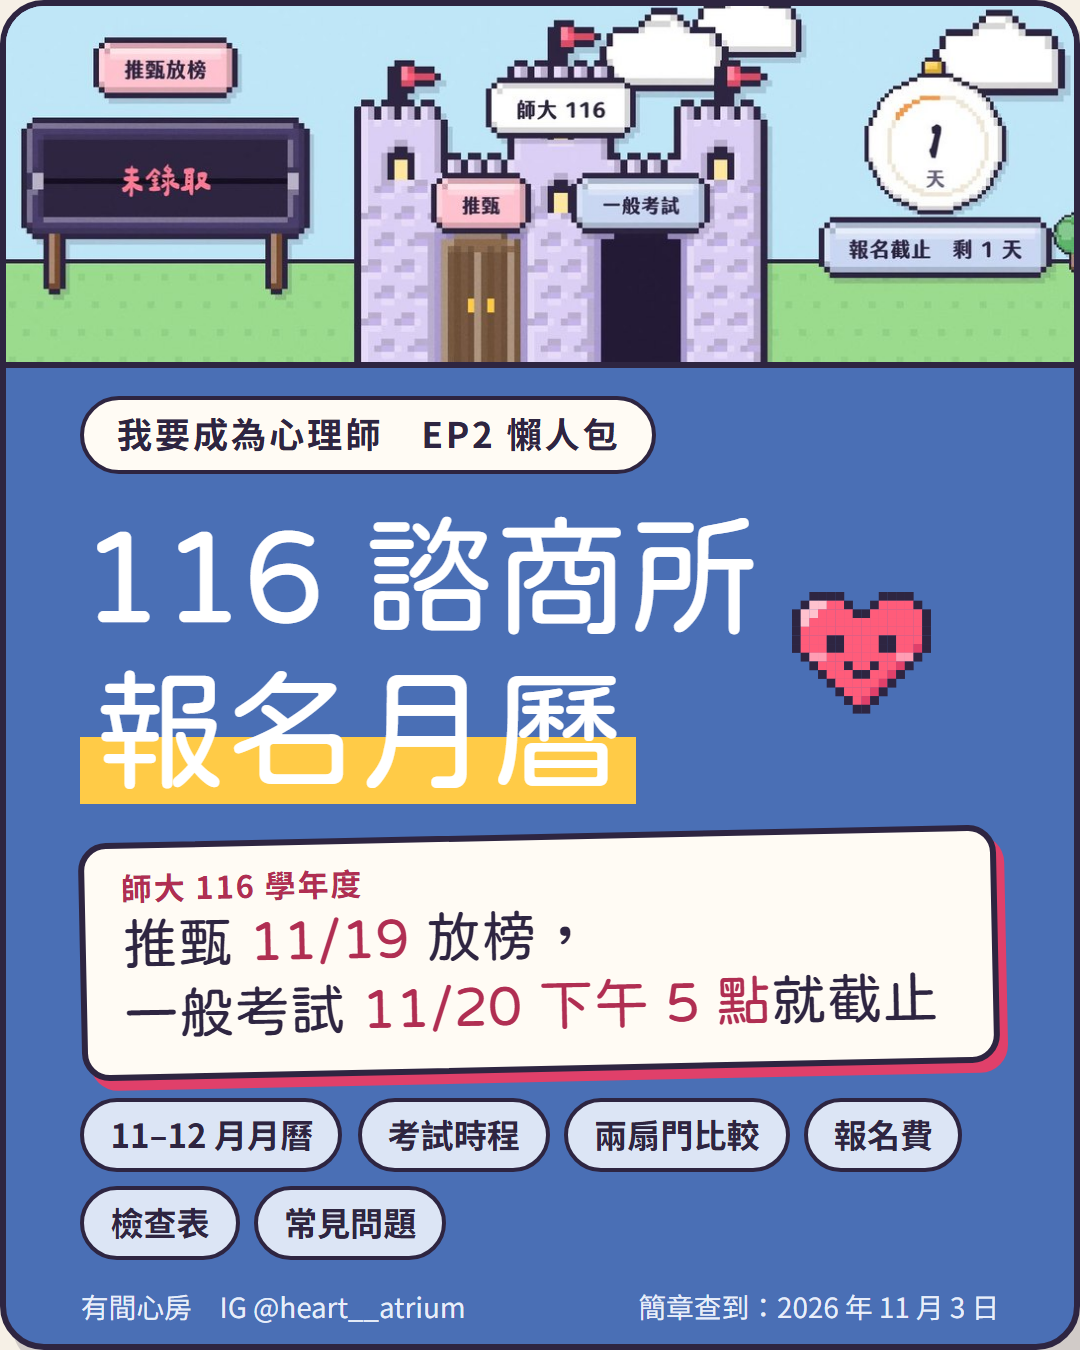
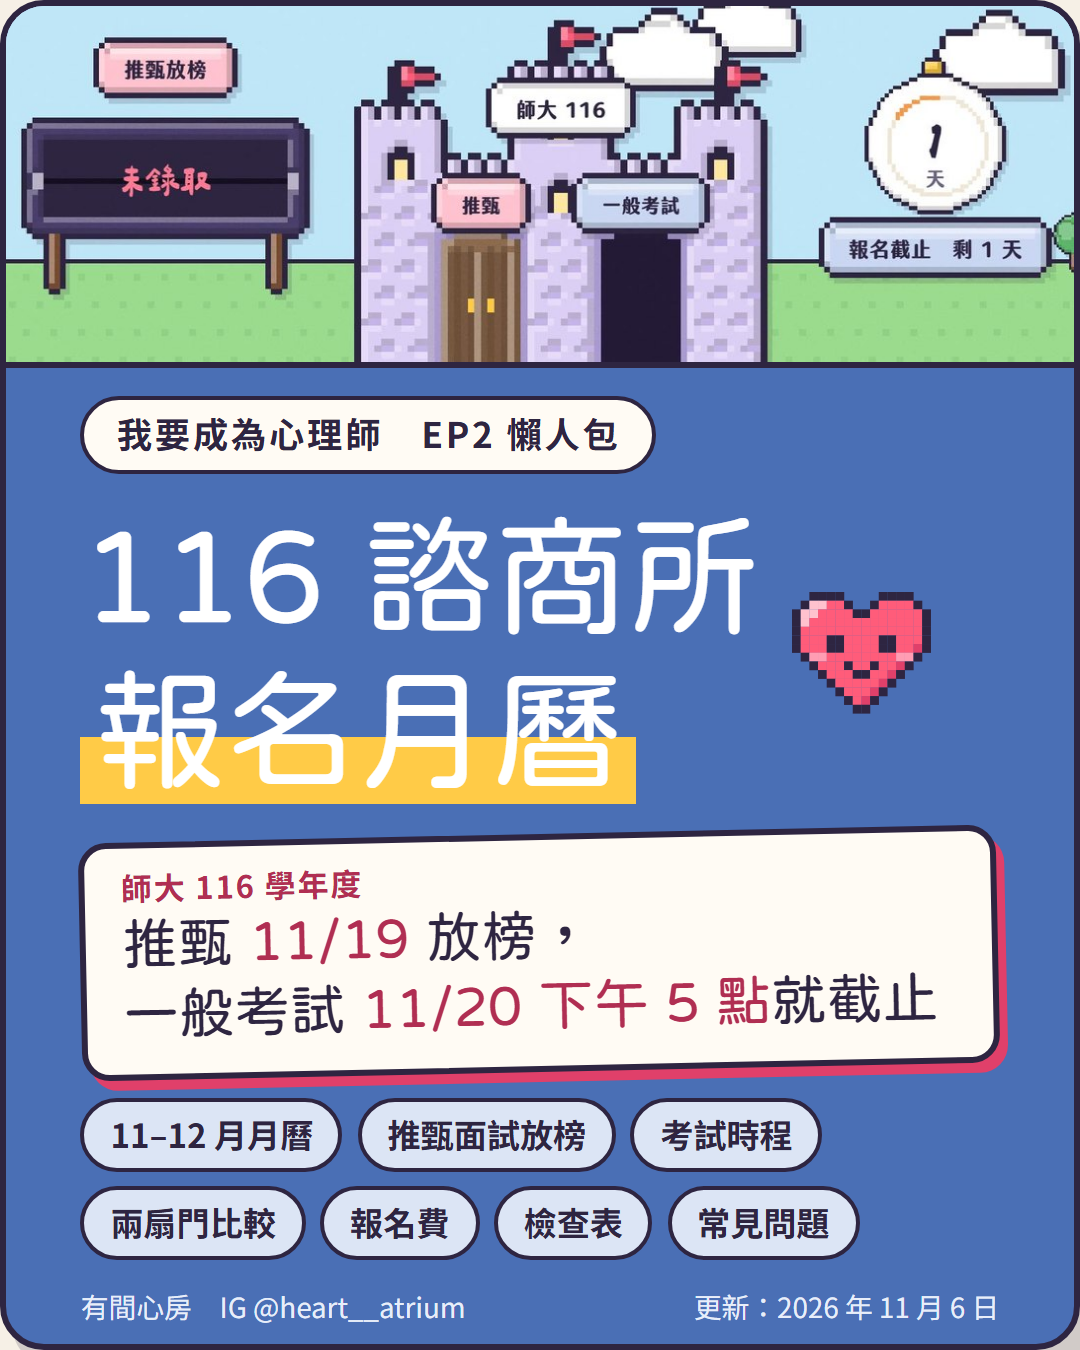
calendar-116: add card 3 (116 推甄 interviews and results from 11/7), link EP3

Changed region(s): [[0.0917, 0.8089, 0.8861, 0.9956]]

diff --git a/calendar-116/index.html b/calendar-116/index.html
@@ -3,7 +3,7 @@
 <head>
 <meta charset="utf-8">
 <meta name="viewport" content="width=device-width, initial-scale=1, viewport-fit=cover">
-<meta name="description" content="116 學年度諮商所推甄放榜、一般考試報名、筆試、口試、放榜日期一次看。師大推甄 11/19 放榜、一般考試 11/20 下午 5 點截止。還有推甄和考試比較、報名費總表、兩扇一起走的檢查表、考生常見問題。有間心房・我要成為心理師 EP2。">
+<meta name="description" content="116 學年度諮商所推甄面試、放榜，一般考試報名、筆試、口試、放榜日期一次看。師大推甄 11/19 放榜、一般考試 11/20 下午 5 點截止。還有推甄和考試比較、報名費總表、兩扇一起走的檢查表、考生常見問題。有間心房・我要成為心理師 EP2。">
 <meta property="og:title" content="116 諮商所報名月曆｜有間心房">
 <meta property="og:description" content="師大推甄 11/19 放榜，一般考試 11/20 下午 5 點就截止。各校推甄放榜、一般考試報名和筆試日期，一張月曆看完。">
 <meta property="og:image" content="https://leopork.github.io/free-counseling/calendar-116/card_1.png">
@@ -85,6 +85,16 @@ a:focus-visible { outline: 3px solid var(--sun); outline-offset: 2px; }
 .alert b { font-family: var(--display); font-weight: 400; font-size: 3.9cqw; line-height: 1.2; }
 .alert p { font-size: 2.9cqw; line-height: 1.45; }
 .alert p strong { font-weight: 900; }
+
+/* 推甄 agenda: one line per day, a coloured tag per kind of event */
+.ag { display: grid; gap: .55cqw; }
+.a { display: grid; grid-template-columns: 15cqw 1fr; gap: 1.6cqw; align-items: center; }
+.a .dt { height: 4.3cqw; padding-top: .2cqw; }
+.a .dt b { font-size: 3.1cqw; }
+.es { font-size: 2.75cqw; line-height: 1.25; white-space: nowrap; }
+.es .k { font-size: 2.45cqw; padding: .55cqw 1.3cqw; margin-right: .7cqw; }
+.es .k:not(:first-child) { margin-left: 1.4cqw; }
+.k.o { background: var(--sunL); } .k.m { background: var(--greenL); }
 
 /* schedule tables (real tables, so they read in order for screen readers) */
 .tbl { width: 100%; table-layout: fixed; border-collapse: separate; border-spacing: 0; border: 2px solid var(--ink); border-radius: 14px; overflow: hidden; background: var(--card); }
@@ -168,8 +178,8 @@ a:focus-visible { outline: 3px solid var(--sun); outline-offset: 2px; }
   <span class="tag">我要成為心理師　EP2 懶人包</span>
   <div class="row"><h1>116 諮商所<br><mark>報名月曆</mark></h1><svg class="heart" viewBox="0 0 16 14" aria-hidden="true"></svg></div>
   <div class="alarm"><small>師大 116 學年度</small><strong>推甄 <em>11/19</em> 放榜，<br>一般考試 <em>11/20 下午 5 點</em>就截止</strong></div>
-  <ul class="toc"><li>11–12 月月曆</li><li>考試時程</li><li>兩扇門比較</li><li>報名費</li><li>檢查表</li><li>常見問題</li></ul>
-  <div class="foot"><span>有間心房　IG @heart__atrium</span><span>簡章查到：2026 年 11 月 3 日</span></div>
+  <ul class="toc"><li>11–12 月月曆</li><li>推甄面試放榜</li><li>考試時程</li><li>兩扇門比較</li><li>報名費</li><li>檢查表</li><li>常見問題</li></ul>
+  <div class="foot"><span>有間心房　IG @heart__atrium</span><span>更新：2026 年 11 月 6 日</span></div>
 </div></section>
 
 <!-- 2 11–12 月月曆（116 官方） -->
@@ -196,8 +206,34 @@ a:focus-visible { outline: 3px solid var(--sun); outline-offset: 2px; }
       <div class="alert"><b>師大：放榜隔天<br>就截止</b><p>等高師、政大、東華的推甄結果，就來不及報師大。<strong>考試先報，不要等。</strong></p></div>
     </div>
   </div>
-  <p class="small">清大＝心諮系甲組。其他學校的一般考試還沒公告，見第 4 張。</p>
-  <div class="foot"><span>依據：9 校 116 甄試簡章；師大、政大、高師 116 考試簡章</span><span>2 / 10</span></div>
+  <p class="small">清大＝心諮系甲組。其他學校的一般考試還沒公告，見第 5 張。</p>
+  <div class="foot"><span>依據：9 校 116 甄試簡章；師大、政大、高師 116 考試簡章</span><span>2 / 11</span></div>
+</div></section>
+
+<!-- 3 推甄：接下來的一榜、面試、放榜（11/7 起） -->
+<section class="card" id="c2b"><div class="in">
+  <span class="tag">推甄日程　11/7 起</span>
+  <h2>接下來誰面試、誰放榜</h2>
+  <p class="small">一榜＝書審通過、公布面試名單。面試日以各系所公告為準。</p>
+  <div class="ag">
+    <div class="a"><span class="dt"><b>11/7</b><i>六</i></span><span class="es"><span class="k m">面試</span>師大、國北教、輔大</span></div>
+    <div class="a"><span class="dt"><b>11/10</b><i>二</i></span><span class="es"><span class="k r">放榜</span>臺南</span></div>
+    <div class="a"><span class="dt"><b>11/12</b><i>四</i></span><span class="es"><span class="k o">一榜</span>屏大、東吳</span></div>
+    <div class="a"><span class="dt"><b>11/13</b><i>五</i></span><span class="es"><span class="k o">一榜</span>政大、銘傳<span class="k m">面試</span>暨大<span class="k r">放榜</span>清大</span></div>
+    <div class="a"><span class="dt"><b>11/14</b><i>六</i></span><span class="es"><span class="k m">面試</span>中教、嘉大、北護</span></div>
+    <div class="a"><span class="dt"><b>11/16</b><i>一</i></span><span class="es"><span class="k o">一榜</span>實踐<span class="k r">放榜</span>北市大</span></div>
+    <div class="a"><span class="dt"><b>11/18</b><i>三</i></span><span class="es"><span class="k r">放榜</span>國北教</span></div>
+    <div class="a"><span class="dt"><b>11/19</b><i>四</i></span><span class="es"><span class="k o">一榜</span>亞大<span class="k r">放榜</span>師大</span></div>
+    <div class="a"><span class="dt"><b>11/20</b><i>五</i></span><span class="es"><span class="k m">面試</span>屏大、政大<span class="k r">放榜</span>陽交、彰師、暨大</span></div>
+    <div class="a"><span class="dt"><b>11/21</b><i>六</i></span><span class="es"><span class="k m">面試</span>東吳、銘傳、亞大</span></div>
+    <div class="a"><span class="dt"><b>11/22</b><i>日</i></span><span class="es"><span class="k m">面試</span>實踐</span></div>
+    <div class="a"><span class="dt"><b>11/24</b><i>二</i></span><span class="es"><span class="k r">放榜</span>高師</span></div>
+    <div class="a"><span class="dt"><b>11/30</b><i>一</i></span><span class="es"><span class="k o">一榜</span>東華</span></div>
+    <div class="a"><span class="dt"><b>12/1</b><i>二</i></span><span class="es"><span class="k r">放榜</span>政大</span></div>
+    <div class="a"><span class="dt"><b>12/5</b><i>六</i></span><span class="es"><span class="k m">面試</span>東華</span></div>
+    <div class="a"><span class="dt"><b>12/15</b><i>二</i></span><span class="es"><span class="k r">放榜</span>東華</span></div>
+  </div>
+  <div class="foot"><span>依據：各校 116 甄試簡章；陽交、輔大等 11 校引用網路整理的日程（網頁版附學校名單）</span><span>3 / 11</span></div>
 </div></section>
 
 <!-- 3 一般考試：116 已公告的三間 -->
@@ -218,7 +254,7 @@ a:focus-visible { outline: 3px solid var(--sun); outline-offset: 2px; }
     </tbody>
   </table>
   <p class="small">推甄放榜、報名在 115 年，筆試以後是 116 年。政大 12/8 中午 12 點前要取號、下午 3 點前登錄。師大＝教心系諮商心理學組，政大＝輔導與諮商學程，高師＝諮復所諮商心理組。</p>
-  <div class="foot"><span>依據：師大、政大、高師 116 學年度碩士班考試、甄試招生簡章</span><span>3 / 10</span></div>
+  <div class="foot"><span>依據：師大、政大、高師 116 學年度碩士班考試、甄試招生簡章</span><span>4 / 11</span></div>
 </div></section>
 
 <!-- 4 還沒公告的學校：115 參考 -->
@@ -239,7 +275,7 @@ a:focus-visible { outline: 3px solid var(--sun); outline-offset: 2px; }
   </table>
   <p class="small">以上是 <b>115 學年度</b>（上一屆）的日期，116 的簡章到 11/3 還沒公告，日期以各校簡章為準。臺南、嘉義、暨南、屏東沒查到 115 簡章原文，先不列。</p>
   <div class="box r"><p><b>上一屆有 4 間的筆試擠在同一個週末</b>（北市大、彰師、中教大 3/7，東華 3/8）。筆試撞期只能選一間。</p></div>
-  <div class="foot"><span>依據：國北教、清大、北市大、彰師、中教大、東華 115 學年度碩士班考試簡章（各校諮商相關系組）</span><span>4 / 10</span></div>
+  <div class="foot"><span>依據：國北教、清大、北市大、彰師、中教大、東華 115 學年度碩士班考試簡章（各校諮商相關系組）</span><span>5 / 11</span></div>
 </div></section>
 
 <!-- 5 兩扇門比較 -->
@@ -259,7 +295,7 @@ a:focus-visible { outline: 3px solid var(--sun); outline-offset: 2px; }
     <p><b>大多不限</b>：政大、高師（116）、彰師（115）不限；臺南考試簡章未查到</p>
   </div>
   <div class="box b"><p><b>兩扇門最後都走進口試：</b>有些學校（像師大、北市大）會請你當場演練一段諮商。</p></div>
-  <div class="foot"><span>依據：各校 116 推甄、考試簡章；彰師、北市大 115 考試簡章</span><span>5 / 10</span></div>
+  <div class="foot"><span>依據：各校 116 推甄、考試簡章；彰師、北市大 115 考試簡章</span><span>6 / 11</span></div>
 </div></section>
 
 <!-- 6 報名費總表 -->
@@ -288,7 +324,7 @@ a:focus-visible { outline: 3px solid var(--sun); outline-offset: 2px; }
   </div>
   <div class="sum"><div><i>8 間推甄全報、都過初審</i><b>約 13,400 元</b></div><div><i>8 間考試全報、都進口試</i><b>約 16,300 元</b></div></div>
   <p class="small">單位：元，交通、住宿另計；考試總額有 5 間用 115 的價錢。低收、中低收入戶可減免，各校不同。</p>
-  <div class="foot"><span>依據：各校 116 推甄簡章、116 和 115 考試簡章</span><span>6 / 10</span></div>
+  <div class="foot"><span>依據：各校 116 推甄簡章、116 和 115 考試簡章</span><span>7 / 11</span></div>
 </div></section>
 
 <!-- 7 兩扇一起走的檢查表 -->
@@ -305,7 +341,7 @@ a:focus-visible { outline: 3px solid var(--sun); outline-offset: 2px; }
       師大不另外通知，每週五自己上網看遞補。</span></li>
     <li><span><b>備取遞補到幾月：</b>推甄最晚到 2 月開學（高師 12/31、政大 1/31、師大 2/12、國北教 2/15、彰師與東華 2/22）；考試備取可以等到 9 月開學前（政大 8/31）。</span></li>
   </ul>
-  <div class="foot"><span>依據：各校 116 推甄、考試簡章；清大、彰師 115 考試簡章；教育部〈大學辦理招生規定審核作業要點〉第四、七點</span><span>7 / 10</span></div>
+  <div class="foot"><span>依據：各校 116 推甄、考試簡章；清大、彰師 115 考試簡章；教育部〈大學辦理招生規定審核作業要點〉第四、七點</span><span>8 / 11</span></div>
 </div></section>
 
 <!-- 8 常見問題：影片裡的五題 -->
@@ -324,7 +360,7 @@ a:focus-visible { outline: 3px solid var(--sun); outline-offset: 2px; }
     <div><dt><span>5</span>兩間學校考同一天怎麼辦？</dt>
       <dd>筆試撞期只能選一間；口試只有少數學校（像高師）願意當天換時段。報名前自己先排開。<small>師大考試、北市大 115 考試、高師推甄</small></dd></div>
   </dl>
-  <div class="foot"><span>答案來自簡章和教育部規定；沒寫年份＝116 學年度</span><span>8 / 10</span></div>
+  <div class="foot"><span>答案來自簡章和教育部規定；沒寫年份＝116 學年度</span><span>9 / 11</span></div>
 </div></section>
 
 <!-- 9 常見問題：影片沒講的 -->
@@ -339,9 +375,9 @@ a:focus-visible { outline: 3px solid var(--sun); outline-offset: 2px; }
     <div><dt><span>8</span>男生等備取，會被叫去當兵嗎？</dt>
       <dd>有的簡章寫可以憑准考證或錄取通知單辦延期徵集（彰師、清大、東華），實際以戶籍地公所兵役課為準。<small>彰師、東華推甄；清大 115 考試</small></dd></div>
     <div><dt><span>9</span>要報幾間？總共要花多少？</dt>
-      <dd>間數沒有上限，也可以同時報別校；同一間學校上了好幾個，只能擇一報到。費用看第 6 張：8 間推甄約 13,400 元、8 間考試約 16,300 元。<small>師大推甄、高師考試</small></dd></div>
+      <dd>間數沒有上限，也可以同時報別校；同一間學校上了好幾個，只能擇一報到。費用看第 7 張：8 間推甄約 13,400 元、8 間考試約 16,300 元。<small>師大推甄、高師考試</small></dd></div>
   </dl>
-  <div class="foot"><span>沒寫年份的是 116 學年度簡章；招生規定以各校當年簡章為準</span><span>9 / 10</span></div>
+  <div class="foot"><span>沒寫年份的是 116 學年度簡章；招生規定以各校當年簡章為準</span><span>10 / 11</span></div>
 </div></section>
 
 <!-- 10 連結 -->
@@ -352,12 +388,12 @@ a:focus-visible { outline: 3px solid var(--sun); outline-offset: 2px; }
   <ul class="eps">
     <li><b>上一集 EP1</b>　怎麼當心理師？370 人搶 8 個位子<a href="https://youtu.be/NSUUJPSnfE0">youtu.be/NSUUJPSnfE0</a></li>
     <li><b>懶人包「心理師之路」</b>　研究所、實習、國考三關<a href="https://leopork.github.io/free-counseling/psychologist-path/">leopork.github.io/free-counseling/psychologist-path/</a></li>
-    <li><b>諮商新手村 EP3</b>　諮商室 50 分鐘（也介紹心理師有哪幾種）<a href="https://youtu.be/vuwDib6Ubjs">youtu.be/vuwDib6Ubjs</a></li>
+    <li><b>下一集 EP3</b>　諮商所怎麼準備？書審、申論、讀書計畫三份模板<a href="https://youtu.be/6SetqgthUCw">youtu.be/6SetqgthUCw</a></li>
     <li><b>播放清單「我要成為心理師」</b><a href="https://www.youtube.com/playlist?list=PLCye8Bqwstm4">youtube.com/playlist?list=PLCye8Bqwstm4</a></li>
   </ul>
   <p class="ask">你今年走哪一扇門？推甄、考試，還是兩扇都走？<b style="white-space:nowrap">留言告訴怦怦</b>。下一集：不是心理系怎麼準備？<b style="white-space:nowrap">追蹤 @heart__atrium</b></p>
   <p class="small">現在很難熬嗎？安心專線 1925（24 小時免付費）。招生日期、名額、報名費以各校當年簡章為準。</p>
-  <div class="foot"><span>有間心房　YouTube @heartatrium<br>IG、Threads @heart__atrium</span><span>10 / 10</span></div>
+  <div class="foot"><span>有間心房　YouTube @heartatrium<br>IG、Threads @heart__atrium</span><span>11 / 11</span></div>
 </div></section>
 
 </main>
@@ -374,6 +410,11 @@ a:focus-visible { outline: 3px solid var(--sun); outline-offset: 2px; }
   <h3>116 學年度碩士班甄試（推甄）簡章</h3>
   <ul>
     <li><a href="https://www.aa.ntnu.edu.tw/zh_tw/admission/116%E5%AD%B8%E5%B9%B4%E5%BA%A6%E7%A2%A9%E5%A3%AB%E7%8F%AD%E7%94%84%E8%A9%A6%E5%85%A5%E5%AD%B8%E6%8B%9B%E7%94%9F%E7%B0%A1%E7%AB%A0%E6%9A%A8%E9%99%84%E4%BB%B6-19495647">師大</a>、<a href="https://mecas.nccu.edu.tw/upload/48/doc/42637/116%E5%AD%B8%E5%B9%B4%E5%BA%A6%E6%94%BF%E5%A4%A7%E7%A2%A9%E5%8D%9A%E7%94%84%E7%B0%A1%E7%AB%A0.pdf">政大</a>、<a href="https://cprc.nknu.edu.tw/UploadFile/News/2026911165118/116M1.pdf">高師</a>、<a href="https://acadaff.ncue.edu.tw/p/406-1002-34643,r154.php?Lang=zh-tw">彰師</a>、<a href="https://cict.ntue.edu.tw/uploads/asset/data/6aa21f096a6ab608c40e1794/116%E7%A2%A9%E5%A3%AB%E7%8F%AD%E7%94%84%E8%A9%A6%E5%85%A5%E5%AD%B8%E6%8B%9B%E7%94%9F%E7%B0%A1%E7%AB%A0_%E5%85%AC%E5%91%8A_.pdf">國北教</a>、<a href="https://admission.utaipei.edu.tw/var/file/33/1033/img/283/502665083.pdf">北市大</a>（<a href="https://admission.utaipei.edu.tw/var/file/33/1033/img/283/417711479.pdf">日程表</a>）、<a href="https://adms.site.nthu.edu.tw/var/file/207/1207/img/345/401058547.pdf">清大</a>、<a href="https://exam.ndhu.edu.tw/var/file/104/1104/attach/56/pta_156785_6778914_46770.pdf">東華</a>、<a href="https://campus.nutn.edu.tw/newsPost3/postFiles/105614_116%E5%AD%B8%E5%B9%B4%E5%BA%A6%E7%A2%A9%E5%A3%AB%E7%8F%AD%E7%94%84%E8%A9%A6%E6%8B%9B%E7%94%9F%E7%B0%A1%E7%AB%A0.pdf">臺南</a></li>
+  </ul>
+  <h3>推甄一榜、面試、放榜日（第 3 張）</h3>
+  <ul>
+    <li>師大、政大、彰師、高師、臺南、北市大、國北教、東華、清大：116 學年度甄試簡章原文。</li>
+    <li>陽交、輔大、暨大、中教、北護、嘉大、屏大、東吳、銘傳、實踐、亞大：引用網路上整理的 116 推甄日程表（整理者依各校簡章；我們拿手上 7 校的簡章核對過，全部一致）。2026 年 11 月 6 日整理，以各校公告為準。</li>
   </ul>
   <h3>115 學年度碩士班一般考試簡章（參考）</h3>
   <ul>
